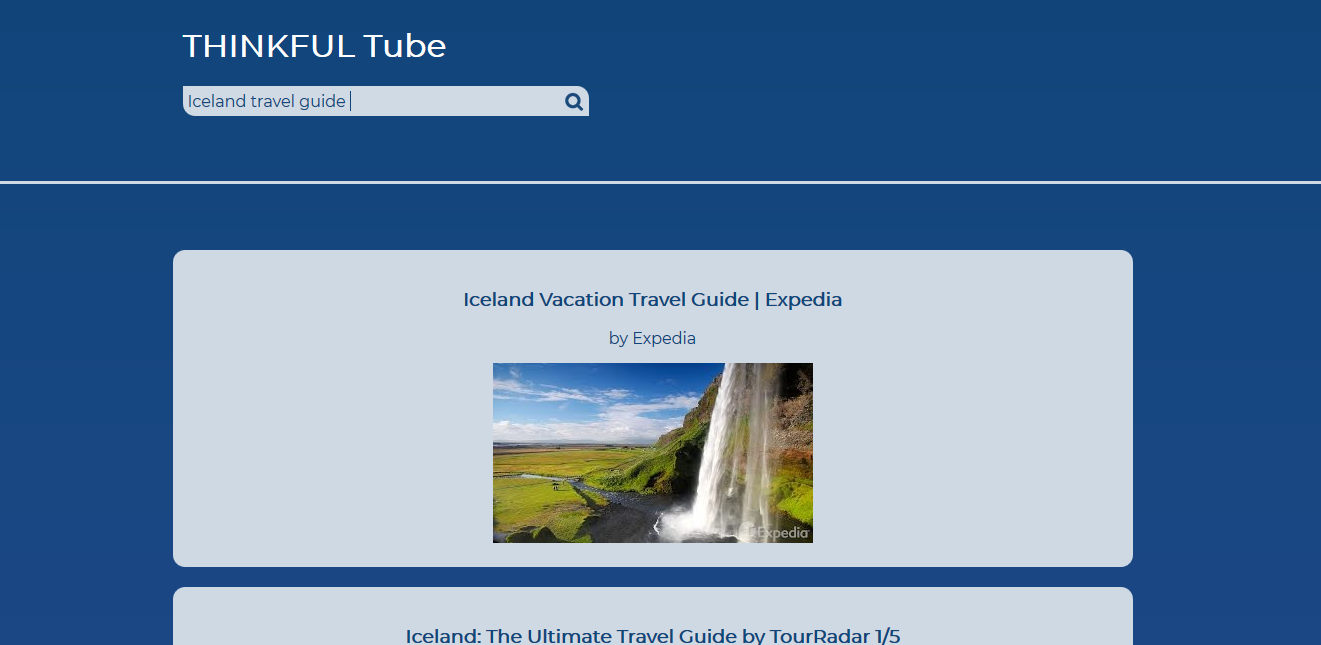
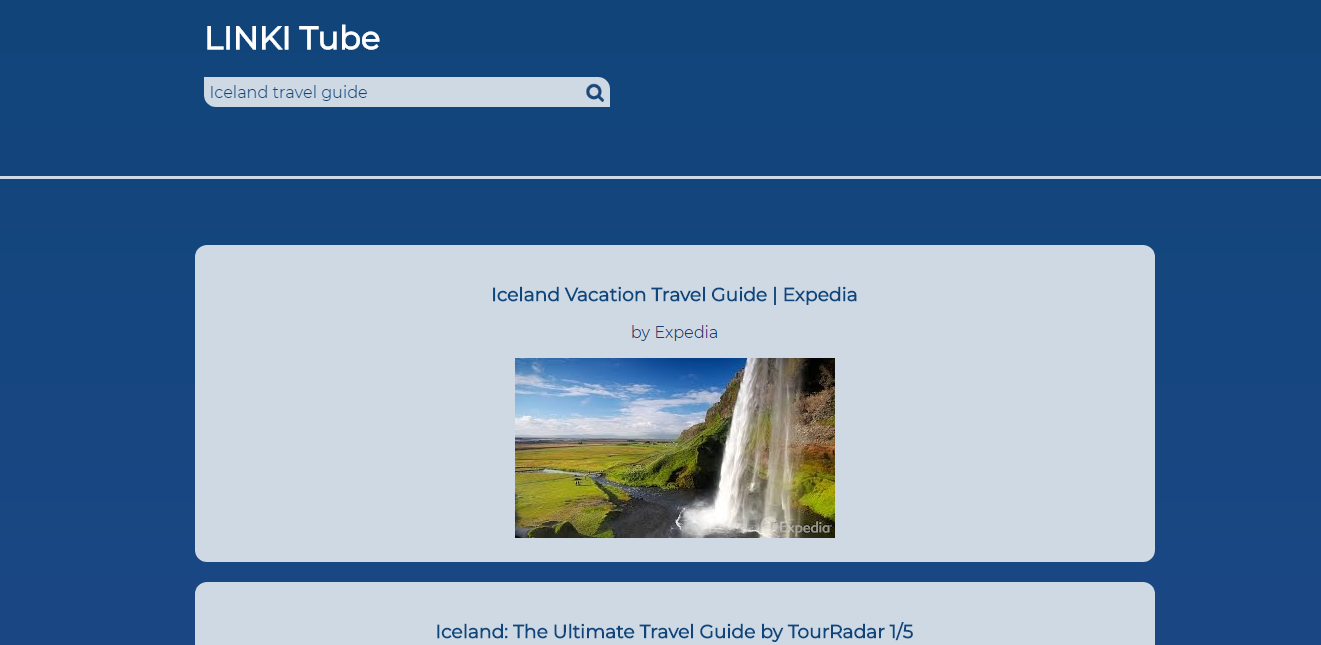
content update

diff --git a/index.html b/index.html
@@ -75,7 +75,7 @@
 
 		<div class="project">
 			<img class="thumbnail" src="thumbs/responsive.png">
-			<h4>Responsive Challenge</h4>
+			<h4>Zoo Sketches Page</h4>
 			<p>Lorem ipsum dolor sit amet, consectetur adipiscing elit, sed do eiusmod tempor incididunt ut labore et dolore magna aliqua.</p>
 			<a href="#">GitHub</a>
 			<a href="#">Live Demo</a>
@@ -101,7 +101,7 @@
 
 		<div class="project">
 			<img class="thumbnail" src="thumbs/tube.png">
-			<h4>Thinkful Tube</h4>
+			<h4>Linki Tube</h4>
 			<p>Lorem ipsum dolor sit amet, consectetur adipiscing elit, sed do eiusmod tempor incididunt ut labore et dolore magna aliqua.</p>
 			<a href="#">GitHub</a>
 			<a href="#">Live Demo</a>
